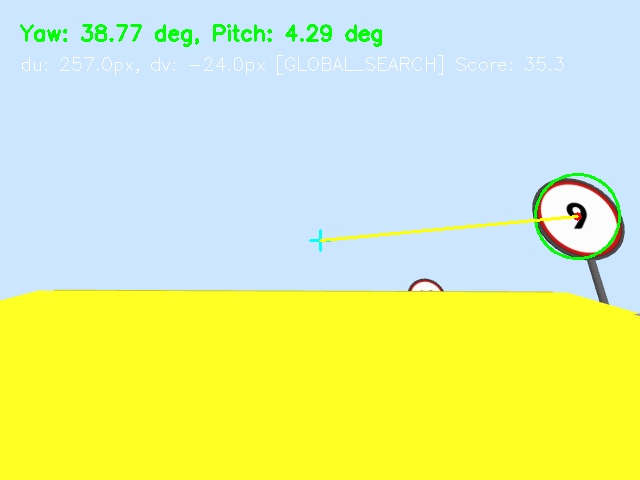
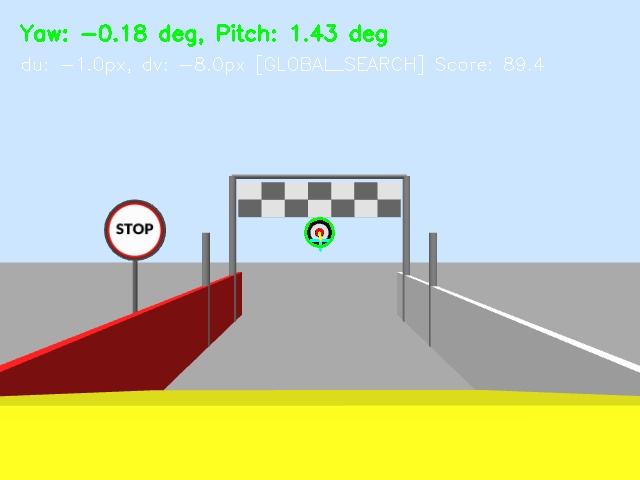
ramp fixes

diff --git a/src/ramp.py b/src/ramp.py
@@ -39,11 +39,9 @@ class RampNode(Node):
         self.declare_parameter("laser_duration", 1.2)
         self.declare_parameter("flat_drive_duration", 1.0)
         self.declare_parameter("top_flat_drive_duration", 1.5)
-        self.declare_parameter("down_flat_drive_duration", 1.0)
         self.declare_parameter("ramp_up_drive_duration", 1.2)
-        self.declare_parameter("top_brake_speed", -0.18)
+        self.declare_parameter("descent_drive_duration", 2.0)
         self.declare_parameter("top_brake_duration", 0.35)
-        self.declare_parameter("down_brake_speed", -0.80)
         self.declare_parameter("down_brake_duration", 2.0)
 
         self.active_stages = [8, 9, 10]
@@ -61,11 +59,9 @@ class RampNode(Node):
         self.laser_duration = float(self.get_parameter("laser_duration").value)
         self.flat_drive_duration = float(self.get_parameter("flat_drive_duration").value)
         self.top_flat_drive_duration = float(self.get_parameter("top_flat_drive_duration").value)
-        self.down_flat_drive_duration = float(self.get_parameter("down_flat_drive_duration").value)
         self.ramp_up_drive_duration = float(self.get_parameter("ramp_up_drive_duration").value)
-        self.top_brake_speed = float(self.get_parameter("top_brake_speed").value)
+        self.descent_drive_duration = float(self.get_parameter("descent_drive_duration").value)
         self.top_brake_duration = float(self.get_parameter("top_brake_duration").value)
-        self.down_brake_speed = float(self.get_parameter("down_brake_speed").value)
         self.down_brake_duration = float(self.get_parameter("down_brake_duration").value)
 
         self.current_stage = self.initial_stage
@@ -224,14 +220,9 @@ class RampNode(Node):
             self.flat_confirm_frames = 0
 
         # Flat pitch check after descending
-        if self.state == "DESCENDING_RAMP":
-            if abs_pitch >= self.ramp_pitch_threshold:
+        if self.state in ("START_DESCENT", "DESCENT_DRIVING"):
+            if abs_pitch >= self.ramp_pitch_threshold or abs_pitch >= math.radians(5.0):
                 self.descent_pitch_seen = True
-
-            if self.descent_pitch_seen and abs_pitch <= self.flat_pitch_threshold:
-                self.descent_flat_frames += 1
-            else:
-                self.descent_flat_frames = 0
 
     def control_loop(self):
         if self.current_stage not in self.active_stages:
@@ -303,31 +294,31 @@ class RampNode(Node):
             # Target_detect handles laser firing and publishes release(9), moving stage to 10
             if self.current_stage == 10:
                 self.descent_pitch_seen = False
-                self.descent_flat_frames = 0
-                self.set_state("DESCENDING_RAMP")
-                self.get_logger().info("Target detect lazer görevini tamamladı (Stage 9 -> 10). Rampadan iniliyor.")
+                self.set_state("START_DESCENT")
+                self.get_logger().info("Target detect lazer görevini tamamladı (Stage 9 -> 10). İniş sürüşü başlatılıyor.")
 
-        elif self.state == "DESCENDING_RAMP":
-            # Driving forward down the ramp
+        elif self.state == "START_DESCENT":
+            # Driving forward off top platform towards descent slope
             self.publish_parking_brake(False)
             self.publish_velocity(linear_x=self.drive_speed)
 
-            # Check if descent slope finished or timeout reached
-            if self.descent_flat_frames >= 4 or self.elapsed_in_state() >= 4.0:
-                self.set_state("DRIVING_OFF_RAMP_FLAT")
+            # Descent slope entered (pitch >= 5 deg or threshold)
+            if self.descent_pitch_seen:
+                self.set_state("DESCENT_DRIVING")
                 self.get_logger().warning(
-                    f"Rampadan iniş düzlüğü algılandı. Fren öncesi {self.down_flat_drive_duration}s sürüşe devam ediliyor."
+                    f"[İNİŞ EĞİMİ ALGILANDI] Rampa iniş eğimine girildi (Pitch={math.degrees(self.pitch):.1f}°). "
+                    f"{self.descent_drive_duration}s boyunca rampadan iniliyor..."
                 )
 
-        elif self.state == "DRIVING_OFF_RAMP_FLAT":
-            # Continue driving forward on flat ground for down_flat_drive_duration (0.5s) before applying brake
+        elif self.state == "DESCENT_DRIVING":
+            # Driving forward down the ramp for descent_drive_duration
             self.publish_parking_brake(False)
             self.publish_velocity(linear_x=self.drive_speed)
 
-            if self.elapsed_in_state() >= self.down_flat_drive_duration:
+            if self.elapsed_in_state() >= self.descent_drive_duration:
                 self.set_state("RAMP_DOWN_STOP")
                 self.get_logger().warning(
-                    f"İniş sonrası düzlük sürüşü tamamlandı. Park freni aktif ediliyor ({self.down_brake_duration}s)."
+                    f"Rampa iniş sürüşü ({self.descent_drive_duration}s) tamamlandı. Park freni aktif ediliyor ({self.down_brake_duration}s)."
                 )
 
         elif self.state == "RAMP_DOWN_STOP":

diff --git a/src/cmd_switch.py b/src/cmd_switch.py
@@ -278,6 +278,10 @@ class CmdSwitchNode(Node):
         if self.active_stage >= self.final_stage:
             return
 
+        # ardışık olarak /teknofest/release sinyalleriyle sırayla geçirilir.
+        if self.active_stage in (9, 10):
+            return
+
         interval = self.stage_interval_seconds()
         if (
             interval is not None
@@ -386,17 +390,21 @@ class CmdSwitchNode(Node):
         if released_stage != self.active_stage:
             return
 
-        self.get_logger().info(
-            f"Stage {released_stage} kontrolü bıraktı. "
-            "Fallow corridor'a dönülüyor."
-        )
-
         self.released_stage = released_stage
-        self.active_stage = 0
 
-        stop_msg = Twist()
-        self.cmd_vel_pub.publish(stop_msg)
+        if released_stage == 8:
+            self.active_stage = 9
+            self.get_logger().info("[STAGE GEÇİŞİ] Stage 8 (Tırmanma) serbest bırakıldı -> Stage 9 (Atış)")
+        elif released_stage == 9:
+            self.active_stage = 10
+            self.get_logger().info("[STAGE GEÇİŞİ] Stage 9 (Atış) serbest bırakıldı -> Stage 10 (İniş)")
+        else:
+            self.active_stage = 0
+            self.get_logger().info(f"[STAGE GEÇİŞİ] Stage {released_stage} tamamlandı -> Stage 0 (Fallow Corridor)")
+            stop_msg = Twist()
+            self.cmd_vel_pub.publish(stop_msg)
 
+        self.record_stage_change()
         self.publish_stage()
 
 

diff --git a/src/fallow_corridor.py b/src/fallow_corridor.py
@@ -227,15 +227,25 @@ class FallowCorridorNode(Node):
         # Keep cruising speed CONSTANT at target_speed (0.5 m/s) - Never slow down or stop!
         linear_x = target_speed
 
-        # 4. Incline Speed Compensation
+        # Clamp angular velocity limit
+        angular_z = np.clip(angular_z, -max_angular_speed, max_angular_speed)
+
+        # Smooth steering transition to prevent abrupt/jerky turns
+        self.last_angular_z = 0.65 * self.last_angular_z + 0.35 * angular_z
+        angular_z = self.last_angular_z
+
+        # 4. Incline Speed Compensation & Turn Speed Adaptation
         speed_factor = 1.0
         if self.has_imu and linear_x > 0.0:
             speed_factor = 1.0 - (self.current_pitch * pitch_scale_factor)
             speed_factor = np.clip(speed_factor, min_speed_factor, max_speed_factor)
             linear_x = linear_x * speed_factor
 
-        # Clamp angular velocity limit
-        angular_z = np.clip(angular_z, -max_angular_speed, max_angular_speed)
+        # Ease linear speed slightly during sharp turns to allow tighter turning radius
+        if abs(angular_z) > 0.4:
+            turn_ease = min(1.0, (abs(angular_z) - 0.4) / 1.0)
+            linear_x = linear_x * (1.0 - 0.25 * turn_ease)
+            linear_x = max(min_speed, linear_x)
 
         # Publish velocities
         cmd_msg = Twist()

diff --git a/src/dynamic_obstacle.py b/src/dynamic_obstacle.py
@@ -24,7 +24,6 @@ class DynamicObstacleNode(Node):
         # Parameters
         self.declare_parameter("initial_stage", 0)
         self.declare_parameter("target_speed", 0.35)
-        self.declare_parameter("brake_speed", -0.15)
         self.declare_parameter("brake_duration", 0.4)
         self.declare_parameter("detection_min_x", 0.4)
         self.declare_parameter("detection_max_x", 2.2)
@@ -89,7 +88,6 @@ class DynamicObstacleNode(Node):
             return
 
         target_speed = float(self.get_parameter("target_speed").value)
-        brake_speed = float(self.get_parameter("brake_speed").value)
         brake_duration = float(self.get_parameter("brake_duration").value)
         detection_min_x = float(self.get_parameter("detection_min_x").value)
         detection_max_x = float(self.get_parameter("detection_max_x").value)
